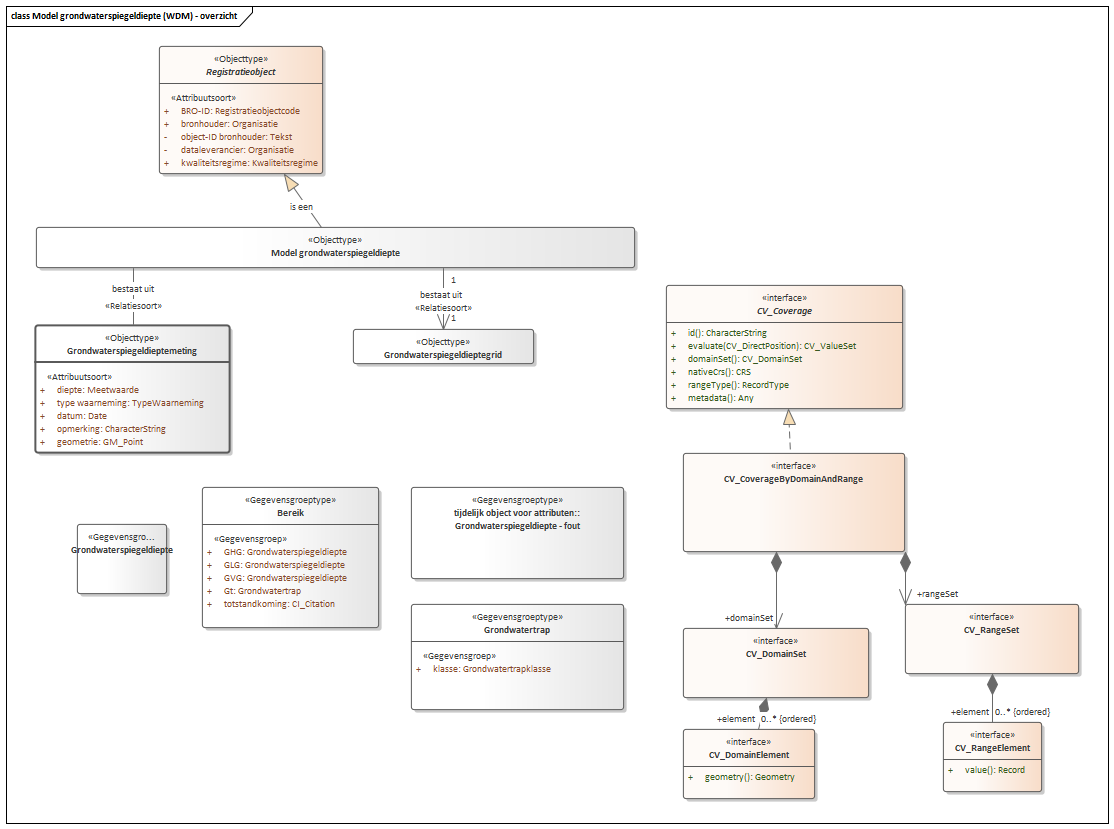
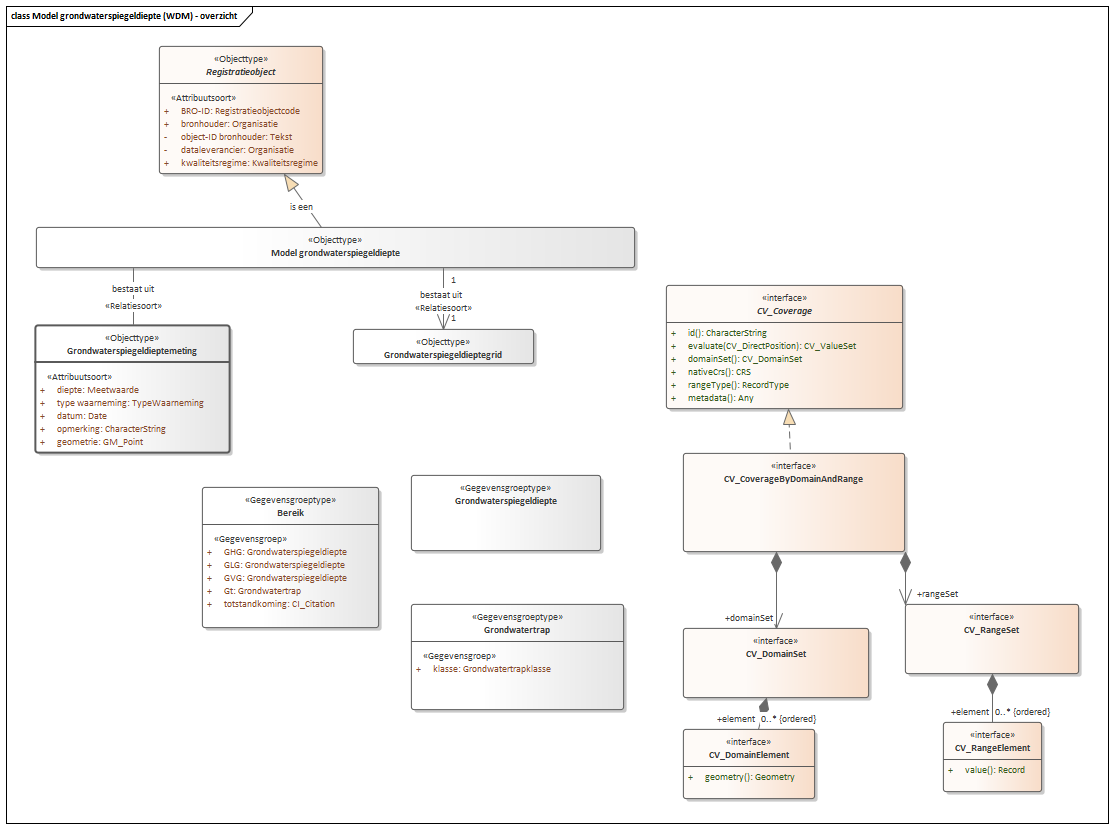
Conceptualmodel-ModelgrondwaterspiegeldiepteWDM-conceptueel-1.0-1-20200721-20201027-114527

Changed region(s): [[0.3662, 0.573, 0.5799, 0.7238], [0.061, 0.6333, 0.1526, 0.7238]]

diff --git a/data/WDM-cat.msword.html b/data/WDM-cat.msword.html
@@ -15,7 +15,7 @@
    <body>
       <p>Conceptual model/Model grondwaterspiegeldiepte (WDM) - conceptueel/20200721</p>
       <p>Imvertor: 1.61.3</p>
-      <p>Model release: Conceptualmodel-ModelgrondwaterspiegeldiepteWDM-conceptueel-1.0-1-20200721-20201027-114349</p>
+      <p>Model release: Conceptualmodel-ModelgrondwaterspiegeldiepteWDM-conceptueel-1.0-1-20200721-20201027-114527</p>
       <hr>
       <section>
          <h1>Artikel 1 Definitie van registratieobject, entiteiten en attributen</h1>
@@ -50,7 +50,7 @@
          <section>
             <h2>Het domeinmodel</h2>
             <section id="">
-               <div class="imageinfo overview"><img src="Images/EAID_32DF32C8_5066_4b21_A5D5_EE7F2DB49F77.png" usemap="#imagemap-EAID_32DF32C8_5066_4b21_A5D5_EE7F2DB49F77" alt="Diagram "><map name="imagemap-EAID_32DF32C8_5066_4b21_A5D5_EE7F2DB49F77"><area shape="rect" alt="Grondwaterspiegeldieptegrid" coords="353,329,534,364" href="#graph_EAID_330757FF_F73A_4c69_AFB0_B255971A3DF7"><area shape="rect" alt="Grondwaterspiegeldiepte" coords="77,524,187,594" href="#graph_EAID_CB9730B1_898E_44a3_94CC_B7EE2ECA7C84"><area shape="rect" alt="Grondwatertrap" coords="411,604,624,710" href="#graph_EAID_58AEC090_D83F_4707_B418_3D9C79CC58CE"><area shape="rect" alt="Bereik" coords="202,487,379,628" href="#graph_EAID_C0D21A75_9A6A_446d_8157_B61183B58A48"><area shape="rect" alt="Grondwaterspiegeldieptemeting" coords="35,325,230,453" href="#graph_EAID_BEAD8A51_C8E2_4fb6_8DF2_52ED4E1FB678"><area shape="rect" alt="Registratieobject" coords="159,46,323,174" href="#graph_EAID_3A7AEE32_4ECA_4822_9009_121A0679605E"><area shape="rect" alt="Model grondwaterspiegeldiepte" coords="36,227,635,268" href="#graph_EAID_FCE5BAFD_33CD_4c9b_878F_04A61B1ED0BE"></map><p><b>Model grondwaterspiegeldiepte (WDM)</b></p>
+               <div class="imageinfo overview"><img src="Images/EAID_32DF32C8_5066_4b21_A5D5_EE7F2DB49F77.png" usemap="#imagemap-EAID_32DF32C8_5066_4b21_A5D5_EE7F2DB49F77" alt="Diagram "><map name="imagemap-EAID_32DF32C8_5066_4b21_A5D5_EE7F2DB49F77"><area shape="rect" alt="Grondwaterspiegeldiepte" coords="411,475,601,551" href="#graph_EAID_CB9730B1_898E_44a3_94CC_B7EE2ECA7C84"><area shape="rect" alt="Grondwaterspiegeldieptegrid" coords="353,329,534,364" href="#graph_EAID_330757FF_F73A_4c69_AFB0_B255971A3DF7"><area shape="rect" alt="Grondwatertrap" coords="411,604,624,710" href="#graph_EAID_58AEC090_D83F_4707_B418_3D9C79CC58CE"><area shape="rect" alt="Bereik" coords="202,487,379,628" href="#graph_EAID_C0D21A75_9A6A_446d_8157_B61183B58A48"><area shape="rect" alt="Grondwaterspiegeldieptemeting" coords="35,325,230,453" href="#graph_EAID_BEAD8A51_C8E2_4fb6_8DF2_52ED4E1FB678"><area shape="rect" alt="Registratieobject" coords="159,46,323,174" href="#graph_EAID_3A7AEE32_4ECA_4822_9009_121A0679605E"><area shape="rect" alt="Model grondwaterspiegeldiepte" coords="36,227,635,268" href="#graph_EAID_FCE5BAFD_33CD_4c9b_878F_04A61B1ED0BE"></map><p><b>Model grondwaterspiegeldiepte (WDM)</b></p>
                </div>
             </section>
          </section>
@@ -321,18 +321,6 @@
                         </tbody>
                      </table>
                      </section>
-               </section><a class="anchor" id="graph_EAID_CB9730B1_898E_44a3_94CC_B7EE2ECA7C84"></a><a class="anchor" id="global_class_ModelGrondwaterspiegeldiepteWDM_Grondwaterspiegeldiepte"></a><section id="global_class_ModelGrondwaterspiegeldiepteWDM_Grondwaterspiegeldiepte">
-                  <h3>   Grondwaterspiegeldiepte</h3>
-                  <table style="width: 100%;">
-                     <colgroup style="width: 30%;"></colgroup>
-                     <colgroup style="width: 70%;"></colgroup>
-                     <tbody>
-                        <tr>
-                           <th>Type gegeven</th>
-                           <td>Entiteit</td>
-                        </tr>
-                     </tbody>
-                  </table>
                </section><a class="anchor" id="graph_EAID_58AEC090_D83F_4707_B418_3D9C79CC58CE"></a><a class="anchor" id="global_class_ModelGrondwaterspiegeldiepteWDM_Grondwatertrap"></a><section id="global_class_ModelGrondwaterspiegeldiepteWDM_Grondwatertrap">
                   <h3>   Grondwatertrap</h3>
                   <table style="width: 100%;">
@@ -368,6 +356,18 @@
                               
                               <p>Bereik.</p>
                               </td>
+                        </tr>
+                     </tbody>
+                  </table>
+               </section><a class="anchor" id="graph_EAID_CB9730B1_898E_44a3_94CC_B7EE2ECA7C84"></a><a class="anchor" id="global_class_ModelGrondwaterspiegeldiepteWDM_Grondwaterspiegeldiepte"></a><section id="global_class_ModelGrondwaterspiegeldiepteWDM_Grondwaterspiegeldiepte">
+                  <h3>   Grondwaterspiegeldiepte</h3>
+                  <table style="width: 100%;">
+                     <colgroup style="width: 30%;"></colgroup>
+                     <colgroup style="width: 70%;"></colgroup>
+                     <tbody>
+                        <tr>
+                           <th>Type gegeven</th>
+                           <td>Entiteit</td>
                         </tr>
                      </tbody>
                   </table>
